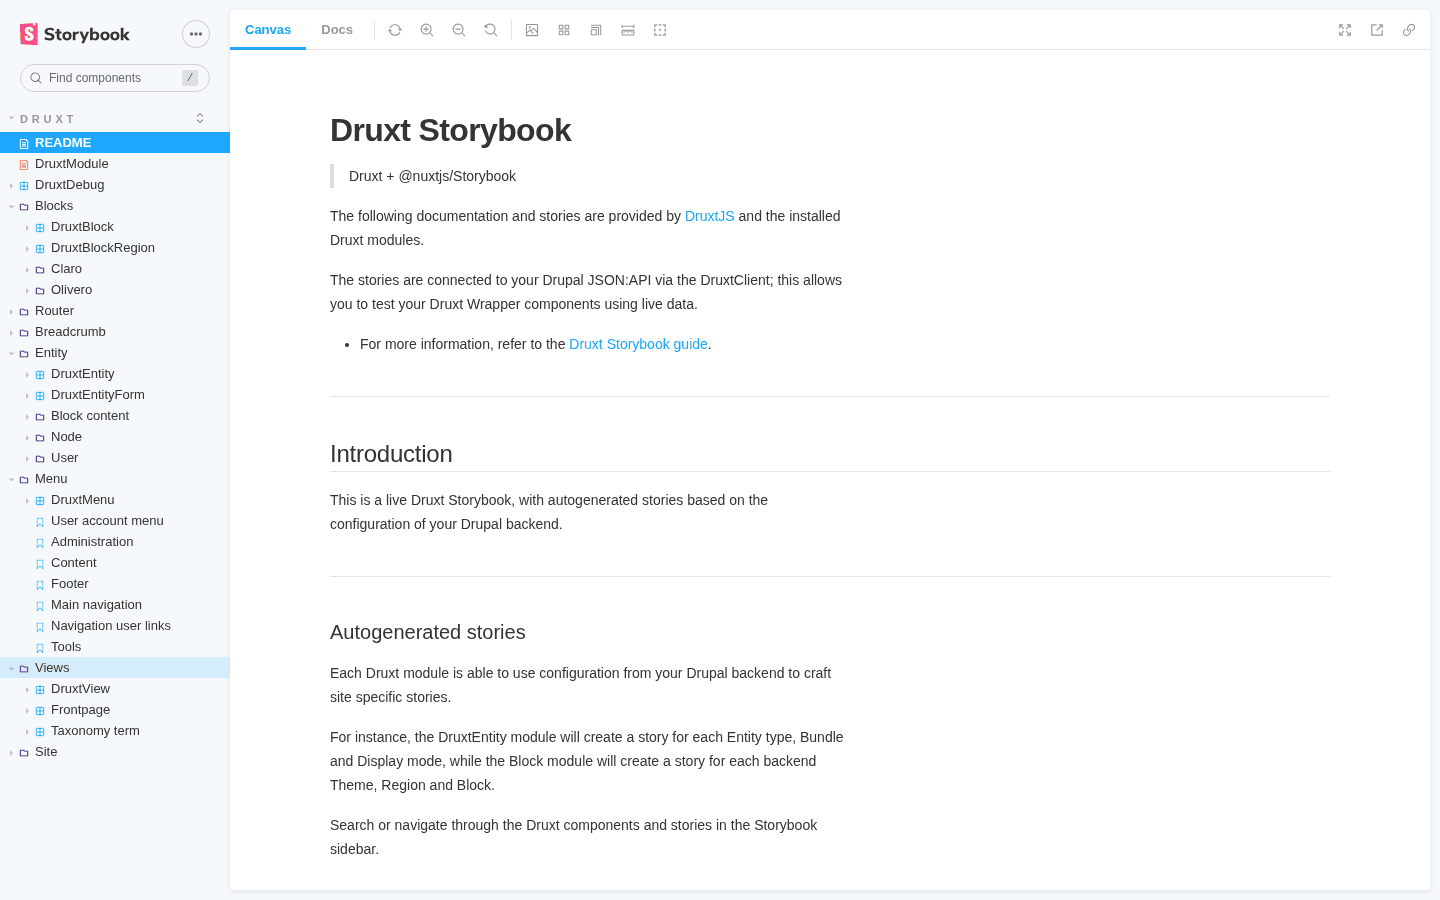
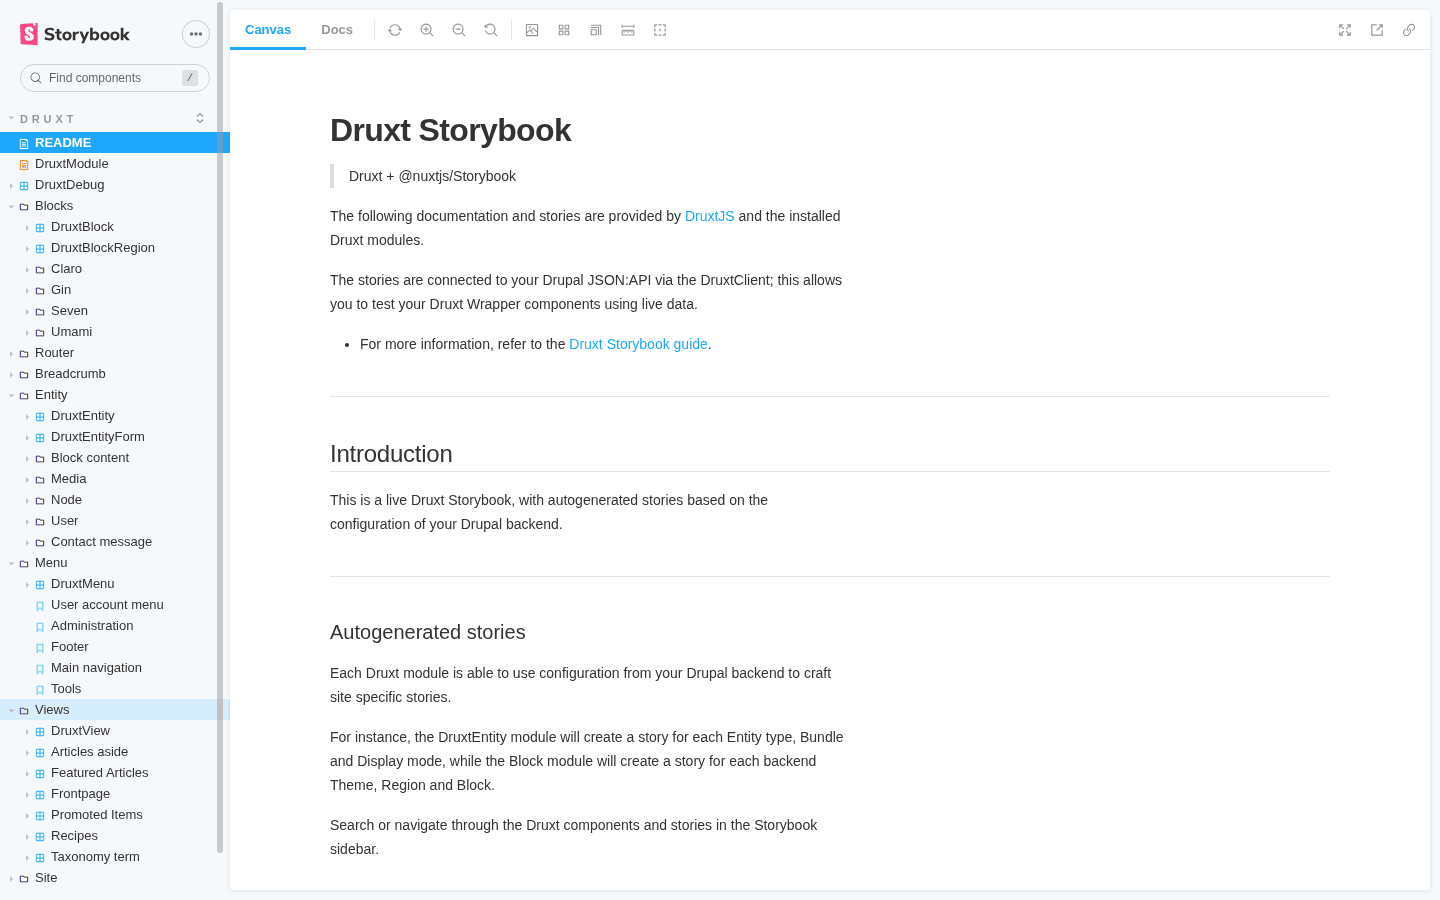
docs(how-to): show a field-rich recipe story from the Umami backend

Changed region(s): [[0.0, 0.0, 0.1562, 0.9644], [0.0, 0.3111, 0.0938, 0.56]]

diff --git a/docs/nuxt/content/how-to/storybook.md b/docs/nuxt/content/how-to/storybook.md
@@ -58,7 +58,7 @@ in Drupal, and after a Storybook restart its story is there.
 
 ## Work a story
 
-![A generated menu story rendering the site's live main navigation, with fifteen controls for the component's props](/images/storybook-menu-story.png)
+![A recipe's full display story rendering live Umami content, its summary, category, tags and timing fields, with the uuid control set to a real recipe](/images/storybook-entity-story.png)
 
 Every story renders through the same components the site uses, against
 live data, and the Controls panel exposes the component's props. Entity
